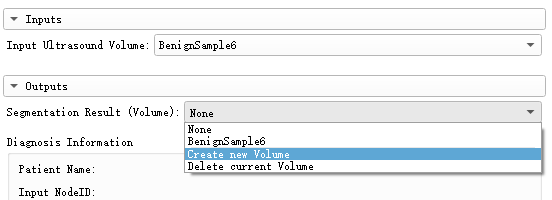
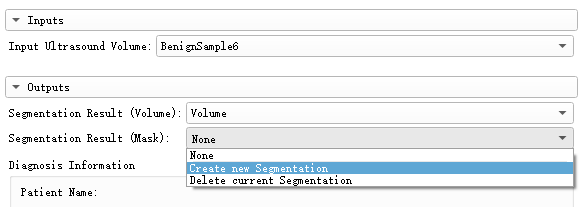
update readme and screenshots

diff --git a/README.md b/README.md
@@ -16,7 +16,7 @@ The AI prediction algorithm integrated in this module will be continuously updat
 
 
 
-To enable this module, [PyTorch](https://pytorch.org/) must be installed in your 3D Slicer. **This module will install them automatically when you restart 3D Slicer for the first time after installing this module(so please be patient at that time).** If the automatic installation fails, check that your network connection is available and try entering the following code in Python Interactor(or Python Console): 
+To enable this module, [PyTorch](https://pytorch.org/) must be installed in your 3D Slicer. **This module will install them automatically when you restart 3D Slicer for the first time after installing this module (so please be patient at that time).** If the automatic installation fails, check that your network connection is available and try entering the following code in Python Interactor (or Python Console): 
 
 ```python
 slicer.util.pip_install('torch torchvision torchaudio')
@@ -40,11 +40,11 @@ Please restart 3D Slicer after installation to enable this module.
 
 ### Tutorial
 
-1. Import breast ultrasound images in DICOM format(PNG format is available but not recommended) into 3D Slicer through `Add DICOM Data` module.(Sample Data can be downloaded and loaded by clicking `Download and Show Sample Data` button. Other download links: [SampleData(Google Drive)](https://drive.google.com/file/d/11eTC9-WLjop39a3g7HRrhIL-5gnQQ0Ay/view?usp=sharing), [SampleData(Jianguo Yun)](https://www.jianguoyun.com/p/DXJYhssQyoG8CxjFj_oEIAA))
+1. Import breast ultrasound images in DICOM format (PNG format is available but not recommended) into 3D Slicer through `Add DICOM Data` module. (Sample Data can be downloaded and loaded by clicking `Download and Show Sample Data` button. Other download links: [SampleData (Google Drive)](https://drive.google.com/file/d/11eTC9-WLjop39a3g7HRrhIL-5gnQQ0Ay/view?usp=sharing), [SampleData (Jianguo Yun)](https://www.jianguoyun.com/p/DXJYhssQyoG8CxjFj_oEIAA))
 
 2. Jump to `Breast Ultrasound Analysis` module and select the ultrasound volume you just imported as the input of the AI prediction algorithm in this module.
 
-3. Select the output volume as the result of AI segmentation(`Create new Volume` is highly recommended).
+3. Select the output volume and output mask as the results of AI segmentation (`Create new Volume` and `Create new Segmentation` is highly recommended).
 
    ![input&output](./Screenshots/input&output.png)
 
@@ -52,10 +52,12 @@ Please restart 3D Slicer after installation to enable this module.
 
 5. Click `AI Automatically Segment and Diagnose` button and wait for several seconds.
 
-6. The results of AI segmentation will be automatically presented in the scene. The `Diagnosis Information` on the left records the patient's name, the ID of the input and output Nodes, the offset of the slice you selected, and the prediction result of AI algorithm (whether the nodule is benign or malignant and its probability).
+6. The results of AI segmentation will be automatically presented in the scene. The `Diagnosis Information` on the left records the patient's name, the ID of the input and output Nodes, the offset of the slice you selected, and the prediction result of AI algorithm  (whether the nodule is benign or malignant and its probability).
 
 7. You can revise the segmentation mask predicted by AI in `Segment Editor` Module. After that, you can save all the diagnosis results by clicking `Save Diagnosis Results` button. The saved results include more detailed diagnostic information, the input 2D ultrasound image and the original & revised segmentation mask.
 
    ![saveResults](./Screenshots/saveResults.png)
 
-- If you checked `Segment All Slice Simultaneously` before clicking `AI Automatically Segment and Diagnose` button, all the slices in the red slice widget will be segmented simultaneously by AI algorithm. It may take several minutes to compute, and the function of classifying breast nodule and saving diagnosis results are unavailable in this mode.
+- If you checked `Segment All Slice Simultaneously` before clicking `AI Automatically Segment and Diagnose` button, the AI algorithm will segment all slices (by default) in the red slice widget at the same time. You can also set the left and right offset bounds to segment a specific portion of the input ultrasound volume. Note that this process may take several minutes to compute, and the function of classifying breast nodules and saving diagnosis results is unavailable in this mode.
+
+![segmentMultiple](./Screenshots/segmentMultiple.png)
